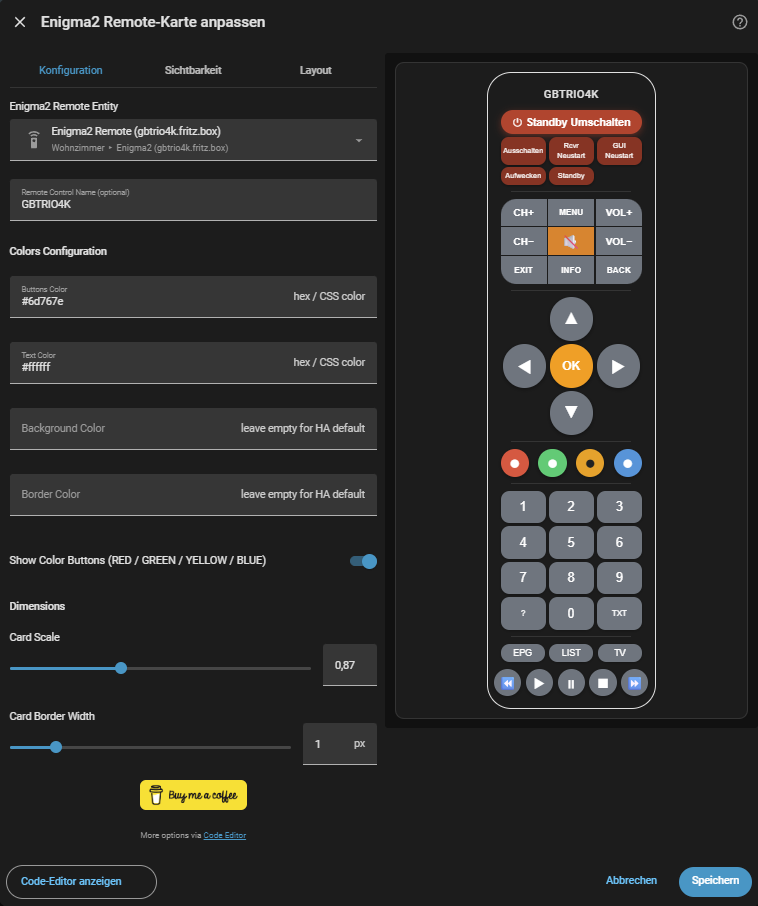
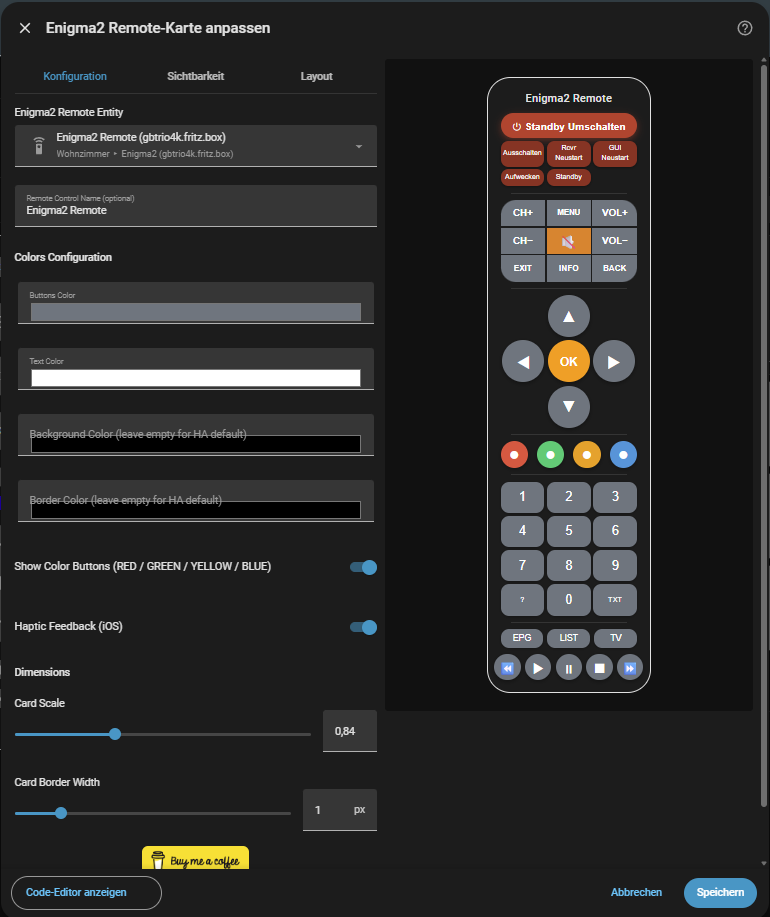
release: v1.6.0 – Color picker, iOS haptic feedback, background fix
- Fix: Inner remote background no longer transparent
- Fix: Color buttons always show white text regardless of text color setting
- Feat: Color picker palette in visual editor for all color fields
- Feat: iOS haptic feedback on button press (toggleable in editor)
- Docs: Update README with new features and editor screenshot

diff --git a/custom_components/enigma2_remote/const.py b/custom_components/enigma2_remote/const.py
@@ -8,7 +8,7 @@ ENIGMA2_CARDS = [
     {
         "name":     "Enigma2 Remote Card",
         "filename": "enigma2-remote-card.js",
-        "version":  "1.6.0b3",
+        "version":  "1.6.0",
     }
 ]
 

diff --git a/README.md b/README.md
@@ -210,11 +210,12 @@ Open the editor by clicking the **pencil icon** on the card in your Lovelace das
 |---|---|
 | **Enigma2 Remote Entity** | Native HA entity picker — only shows entities from this integration |
 | **Remote Control Name** | Optional display title shown at the top of the card |
-| **Buttons Color** | Background color for all buttons (hex or CSS color) |
-| **Text Color** | Text/icon color for all buttons |
-| **Background Color** | Card background color (leave empty for HA theme default) |
-| **Border Color** | Remote body border color (leave empty for HA theme default) |
+| **Buttons Color** | Color picker for all button backgrounds |
+| **Text Color** | Color picker for button text/icons |
+| **Background Color** | Color picker for the card background (leave empty for HA theme default) |
+| **Border Color** | Color picker for the remote body border (leave empty for HA theme default) |
 | **Show Color Buttons** | Toggle the RED / GREEN / YELLOW / BLUE color button row on or off |
+| **Haptic Feedback (iOS)** | Enable native haptic feedback on button press via the HA Companion App |
 | **Card Scale** | Resize the entire remote (0.5× – 1.5×, default 1.0) |
 | **Card Border Width** | Width of the remote body border in px (0–6) |
 
